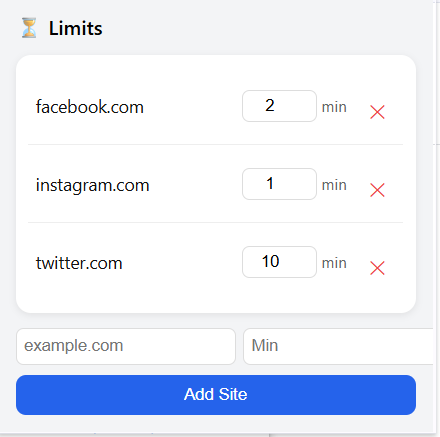
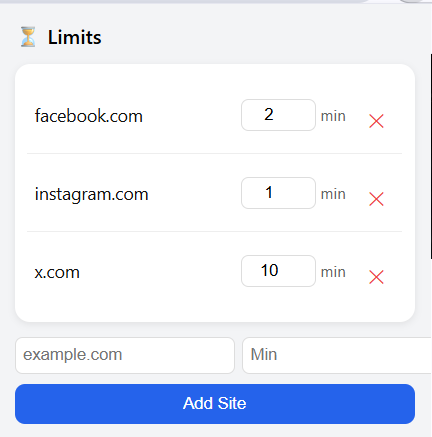
first version

diff --git a/content.js b/content.js
@@ -1,38 +1,45 @@
-const timerDiv = document.createElement("div");
+let timerDiv = null;
 
-timerDiv.style.position = "fixed";
-timerDiv.style.top = "10px";
-timerDiv.style.right = "10px";
-timerDiv.style.zIndex = "999999";
-timerDiv.style.background = "black";
-timerDiv.style.color = "white";
-timerDiv.style.padding = "6px 10px";
-timerDiv.style.borderRadius = "8px";
-timerDiv.style.fontSize = "13px";
-
-document.body.appendChild(timerDiv);
-
+// ⏱ format time
 function formatTime(sec) {
   const m = Math.floor(sec / 60);
   const s = sec % 60;
   return `${m}:${s.toString().padStart(2, "0")}`;
 }
 
+// 🔄 update loop
 setInterval(() => {
   try {
     chrome.runtime.sendMessage({ type: "getTime" }, (res) => {
-      // ❌ if extension reloaded → ignore safely
       if (chrome.runtime.lastError) return;
 
+      // ❌ If site not tracked → remove UI completely
       if (!res || res.remaining == null) {
-        timerDiv.style.display = "none";
+        if (timerDiv) {
+          timerDiv.remove();
+          timerDiv = null;
+        }
         return;
       }
 
-      timerDiv.style.display = "block";
+      // ✅ Create ONLY when needed
+      if (!timerDiv) {
+        timerDiv = document.createElement("div");
+
+        timerDiv.style.position = "fixed";
+        timerDiv.style.top = "10px";
+        timerDiv.style.right = "10px";
+        timerDiv.style.zIndex = "999999";
+        timerDiv.style.background = "black";
+        timerDiv.style.color = "white";
+        timerDiv.style.padding = "6px 10px";
+        timerDiv.style.borderRadius = "8px";
+        timerDiv.style.fontSize = "13px";
+
+        document.body.appendChild(timerDiv);
+      }
+
       timerDiv.textContent = `⏳ ${formatTime(res.remaining)}`;
     });
-  } catch (e) {
-    // fail silently (prevents crash)
-  }
+  } catch (e) {}
 }, 1000);

diff --git a/popup.js b/popup.js
@@ -1,7 +1,7 @@
 const defaultSites = {
   "instagram.com": 600,
   "facebook.com": 600,
-  "twitter.com": 600
+  "x.com": 600
 };
 
 const list = document.getElementById("list");
